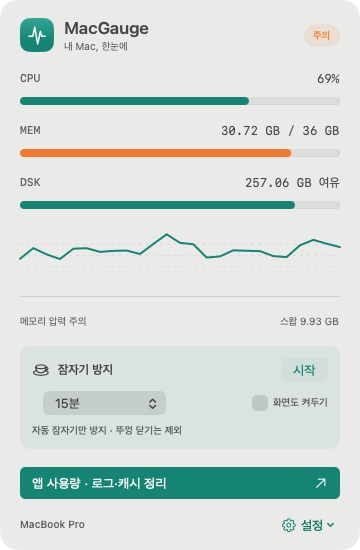
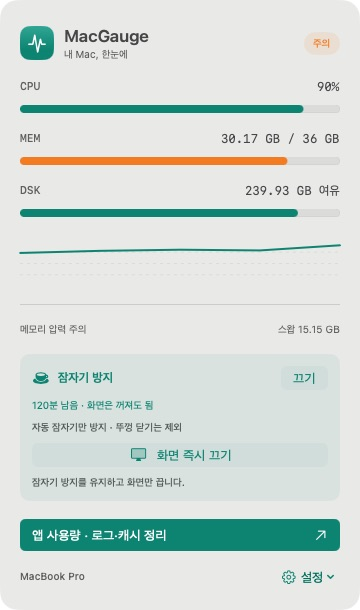
feat: add immediate display sleep while preserving keep-awake session

diff --git a/Sources/MacGauge/AppModel.swift b/Sources/MacGauge/AppModel.swift
@@ -28,6 +28,7 @@ import MacGaugeCore
     @Published var awakeMinutes = 60
     @Published var keepDisplayAwake = false
     @Published var awakeError = ""
+    @Published private(set) var turningDisplayOff = false
     private let awakeSession = KeepAwakeSession()
     private var awakeTimer: Timer?
 
@@ -38,9 +39,21 @@ import MacGaugeCore
     }
 
     func startKeepingAwake() {
+        beginKeepingAwake(duration: awakeMinutes == 0 ? nil : Double(awakeMinutes) * 60)
+    }
+
+    // Used by a local app update to preserve the original session deadline.
+    func resumeKeepingAwake(until deadline: Date, display: Bool) {
+        let remaining = deadline.timeIntervalSinceNow
+        guard remaining.isFinite, remaining > 0 else { return }
+        keepDisplayAwake = display
+        beginKeepingAwake(duration: remaining)
+    }
+
+    private func beginKeepingAwake(duration: TimeInterval?) {
+        guard !turningDisplayOff else { return }
         do {
-            try awakeSession.start(duration: awakeMinutes == 0 ? nil : Double(awakeMinutes) * 60,
-                                   keepDisplayAwake: keepDisplayAwake)
+            try awakeSession.start(duration: duration, keepDisplayAwake: keepDisplayAwake)
             awakeError = ""
             awakeTimer?.invalidate()
             let timer = Timer(timeInterval: 1, repeats: true) { [weak self] _ in
@@ -56,6 +69,25 @@ import MacGaugeCore
         awakeTimer?.invalidate(); awakeTimer = nil
         awakeSession.stop(); awakeError = ""
         updateAwakeState()
+    }
+
+    func turnDisplayOff() {
+        guard !turningDisplayOff else { return }
+        turningDisplayOff = true; awakeError = ""
+        awakeSession.allowDisplaySleep()
+        keepDisplayAwake = false
+        updateAwakeState()
+        Task {
+            defer { turningDisplayOff = false }
+            do {
+                // Let the click/menu dismissal finish before sleeping the display.
+                try await Task.sleep(nanoseconds: 300_000_000)
+                let result = try await Task.detached(priority: .userInitiated) {
+                    try CommandRunner.run("/usr/bin/pmset", ["displaysleepnow"], timeout: 5)
+                }.value
+                if result.status != 0 { awakeError = "화면 끄기 요청에 실패했습니다 (\(result.status))." }
+            } catch { awakeError = "화면 끄기 요청 실패: \(error.localizedDescription)" }
+        }
     }
 
     private func updateAwakeState() {

diff --git a/Sources/MacGauge/Entry.swift b/Sources/MacGauge/Entry.swift
@@ -64,7 +64,7 @@ private final class StatusPanel: NSPanel {
         item.button?.imagePosition = .imageLeading
         item.button?.font = .monospacedDigitSystemFont(ofSize: 11, weight: .medium)
         item.button?.setAccessibilityLabel("MacGauge 시스템 지표")
-        statusPanel = StatusPanel(contentRect: NSRect(x: 0, y: 0, width: 360, height: 550),
+        statusPanel = StatusPanel(contentRect: NSRect(x: 0, y: 0, width: 360, height: 610),
                                   styleMask: [.borderless, .nonactivatingPanel], backing: .buffered, defer: false)
         statusPanel.title = "MacGauge 상태바 패널"
         statusPanel.isOpaque = false; statusPanel.backgroundColor = .clear
@@ -74,11 +74,17 @@ private final class StatusPanel: NSPanel {
         statusPanel.dismiss = { [weak self] in self?.hideStatusPanel() }
         statusPanel.contentViewController = NSHostingController(rootView:
             CompactView(model: model, showDashboard: { [weak self] in self?.showWindow() })
-                .frame(width: 360, height: 550)
+                .frame(width: 360, height: 610)
                 .background(.regularMaterial, in: RoundedRectangle(cornerRadius: 18))
                 .clipShape(RoundedRectangle(cornerRadius: 18)))
         model.onStatusUpdate = { [weak self] in self?.updateStatus() }
         model.start(); updateStatus()
+        let arguments = CommandLine.arguments
+        if let index = arguments.firstIndex(of: "--resume-awake-until"), index + 1 < arguments.count,
+           let timestamp = Double(arguments[index + 1]), timestamp.isFinite {
+            model.resumeKeepingAwake(until: Date(timeIntervalSince1970: timestamp),
+                                     display: arguments.contains("--resume-display-awake"))
+        }
         let firstLaunch = !UserDefaults.standard.bool(forKey: "hasLaunched")
         UserDefaults.standard.set(true, forKey: "hasLaunched")
         if firstLaunch || CommandLine.arguments.contains("--show-window") { showWindow() }

diff --git a/Tests/MacGaugeCoreTests/KeepAwakeTests.swift b/Tests/MacGaugeCoreTests/KeepAwakeTests.swift
@@ -14,6 +14,36 @@ private final class FakeSleepDriver: SleepAssertionDriver {
 }
 
 final class KeepAwakeTests: XCTestCase {
+    func testDisplayOffPreservesSystemAssertionAndDeadline() throws {
+        let driver = FakeSleepDriver(), now = Date(timeIntervalSince1970: 100)
+        let session = KeepAwakeSession(driver: driver)
+        try session.start(duration: 60, keepDisplayAwake: true, now: now)
+        session.allowDisplaySleep(now: now.addingTimeInterval(20))
+        XCTAssertTrue(session.isActive)
+        XCTAssertFalse(session.keepsDisplayAwake)
+        XCTAssertEqual(session.deadline, now.addingTimeInterval(60))
+        XCTAssertEqual(driver.released, [2])
+        session.allowDisplaySleep(now: now.addingTimeInterval(30))
+        XCTAssertEqual(driver.released, [2])
+        session.stop()
+        XCTAssertEqual(driver.released, [2, 1])
+    }
+    func testDisplayOffDoesNotStartAnInactiveSession() {
+        let driver = FakeSleepDriver()
+        let observed = KeepAwakeSession(driver: driver)
+        observed.allowDisplaySleep()
+        XCTAssertFalse(observed.isActive)
+        XCTAssertTrue(driver.created.isEmpty)
+        XCTAssertTrue(driver.released.isEmpty)
+    }
+    func testDisplayOffAfterExpirationReleasesAllAssertions() throws {
+        let driver = FakeSleepDriver(), now = Date(timeIntervalSince1970: 100)
+        let session = KeepAwakeSession(driver: driver)
+        try session.start(duration: 60, keepDisplayAwake: true, now: now)
+        session.allowDisplaySleep(now: now.addingTimeInterval(61))
+        XCTAssertFalse(session.isActive)
+        XCTAssertEqual(driver.released, [1, 2])
+    }
     func testTimedSessionRequestsBothAssertionsAndExpires() throws {
         let driver = FakeSleepDriver(), now = Date(timeIntervalSince1970: 100)
         let session = KeepAwakeSession(driver: driver)

diff --git a/Sources/MacGauge/Views.swift b/Sources/MacGauge/Views.swift
@@ -307,6 +307,7 @@ struct OptionsMenu: View {
             Button(model.awakeActive ? "잠자기 방지 끄기" : "잠자기 방지 시작 (설정된 시간)") {
                 if model.awakeActive { model.stopKeepingAwake() } else { model.startKeepingAwake() }
             }
+            Button("화면 즉시 끄기") { model.turnDisplayOff() }.disabled(model.turningDisplayOff)
             Divider()
             Toggle("상태바에 메모리 표시", isOn: $model.showMemoryInBar)
             Toggle("로그인 후 자동 시작", isOn: Binding(get: { model.loginRequested }, set: { model.toggleLogin($0) }))
@@ -374,6 +375,12 @@ struct KeepAwakeControls: View {
                 }
             }
             Text("자동 잠자기만 방지 · 뚜껑 닫기는 제외").font(.caption2).foregroundStyle(.secondary)
+            Button(action: { model.turnDisplayOff() }) {
+                Label(model.turningDisplayOff ? "화면 끄는 중…" : "화면 즉시 끄기", systemImage: "display")
+                    .frame(maxWidth: .infinity)
+            }.disabled(model.turningDisplayOff)
+            Text(model.awakeActive ? "잠자기 방지를 유지하고 화면만 끕니다." : "작업을 계속하려면 잠자기 방지를 먼저 시작하세요.")
+                .font(.caption2).foregroundStyle(.secondary).fixedSize(horizontal: false, vertical: true)
             if !model.awakeError.isEmpty {
                 Text(model.awakeError).font(.caption).foregroundStyle(.red).fixedSize(horizontal: false, vertical: true)
             }

diff --git a/Sources/MacGaugeCore/KeepAwake.swift b/Sources/MacGaugeCore/KeepAwake.swift
@@ -66,6 +66,14 @@ public final class KeepAwakeSession {
         assertions = []; deadline = nil; keepsDisplayAwake = false
     }
 
+    /// Releases only the display assertion, preserving the system hold and its original deadline.
+    public func allowDisplaySleep(now: Date = Date()) {
+        expire(at: now)
+        guard keepsDisplayAwake else { return }
+        if let display = assertions.popLast() { driver.release(display) }
+        keepsDisplayAwake = false
+    }
+
     @discardableResult public func expire(at now: Date = Date()) -> Bool {
         guard isActive, let deadline, now >= deadline else { return false }
         stop(); return true

diff --git a/README.md b/README.md
@@ -23,6 +23,7 @@
 | 상태바 지표 | CPU·메모리 사용률을 3초 간격으로 표시 |
 | 시스템 상세 | CPU 추이, 메모리 압력, 스왑, 디스크 여유 공간 |
 | 잠자기 방지 | 15분·30분·1시간·2시간·직접 끌 때까지 유지, 화면 유지 선택 |
+| 화면 즉시 끄기 | 잠자기 방지의 남은 시간을 유지하면서 디스플레이만 끄기 |
 | 앱별 사용량 | 앱과 하위 프로세스의 CPU·메모리 합산, 검색·정렬 |
 | 앱 종료 | 정상 종료 요청과 별도 확인을 거치는 강제 종료 |
 | 로그·캐시 정리 | 30·60·90일 이상 수정되지 않은 파일 검색, 그룹별 선택·삭제 |
@@ -85,6 +86,12 @@ open "$HOME/Applications/MacGauge.app"
 - **뚜껑 닫기·수동 잠자기·배터리 부족으로 인한 잠자기는 막지 않습니다.** 이 기능은 사용하지 않을 때 발생하는 자동 잠자기를 방지합니다. [Apple 전원 관리 API 설명](https://developer.apple.com/documentation/iokit/kiopmassertiontypepreventuseridlesystemsleep)
 - 뚜껑을 닫고 사용하는 경우에는 외장 화면·전원·외장 키보드·마우스를 연결하는 macOS의 닫힌 디스플레이 사용 조건을 따라야 합니다. 관리자 권한으로 뚜껑 닫기 동작을 강제 변경하는 기능은 포함하지 않습니다. [Apple 지원 안내](https://support.apple.com/en-us/102501)
 
+### 화면 즉시 끄기
+
+작은 패널·시스템 화면의 **화면 즉시 끄기** 또는 설정 메뉴의 같은 항목을 누르면 디스플레이가 바로 잠자기에 들어갑니다. 키보드나 마우스로 다시 깨울 수 있으며, macOS 잠금 설정에 따라 인증이 필요할 수 있습니다.
+
+작업을 계속 실행하려면 **잠자기 방지를 먼저 시작**하세요. ‘화면도 켜두기’가 활성화되어 있으면 화면 유지 요청만 해제하고 시스템 잠자기 방지와 남은 시간은 그대로 유지합니다. 잠자기 방지가 꺼져 있을 때는 기존 macOS 전원 설정에 따라 Mac도 이후 잠들 수 있습니다. 이 버튼은 시스템 잠자기나 로그아웃을 요청하지 않습니다.
+
 ## 정리 범위와 보호
 
 다음 위치의 허용된 파일만 검색합니다.
@@ -129,7 +136,7 @@ SWIFTPM_MODULECACHE_OVERRIDE="$PWD/.build/ModuleCache" \
 swift test --disable-sandbox --cache-path .build/cache
 ```
 
-자동 테스트 13개로 정리 허용 범위, 사용 중·변경된 파일 보호, 심볼릭 링크 차단, CPU 계산, 하위 프로세스 합산, 잠자기 방지의 만료·해제·실패 시 복구를 검증합니다. 실제 앱에서도 지표 표시·검색·테스트 앱 정상 종료와 패널 표시를 확인했습니다.
+자동 테스트 16개로 정리 허용 범위, 사용 중·변경된 파일 보호, 심볼릭 링크 차단, CPU 계산, 하위 프로세스 합산, 잠자기 방지의 만료·해제·실패 시 복구와 화면 유지 해제 시 기존 시스템 요청·만료 시간 보존을 검증합니다. 실제 앱에서도 지표 표시·검색·테스트 앱 정상 종료와 패널 표시를 확인했습니다.
 
 잠자기 방지는 실제 macOS의 `pmset -g assertions`에서도 확인했습니다. 화면 유지 선택에 따라 시스템·디스플레이 요청이 생성되고, 선택한 만료 시간이 등록되며, 수동 해제와 앱 종료 시 MacGauge의 요청이 사라집니다.
 
